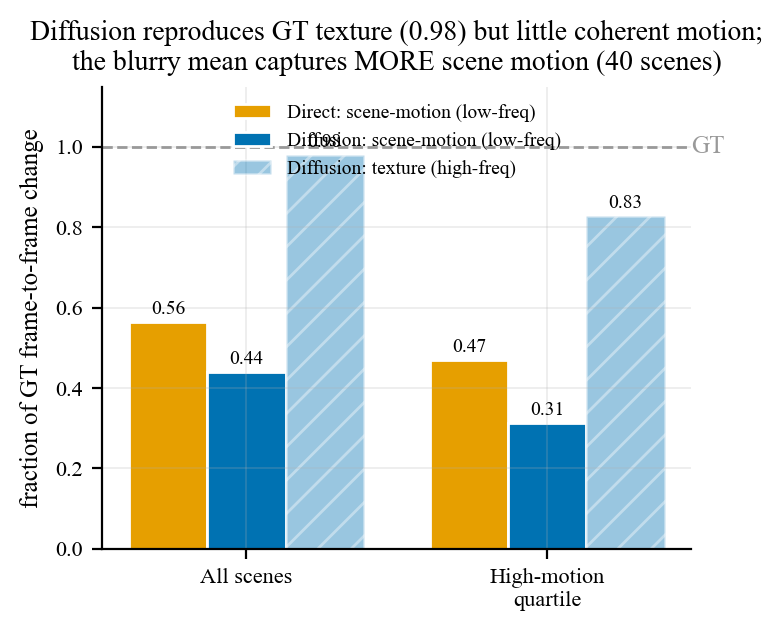
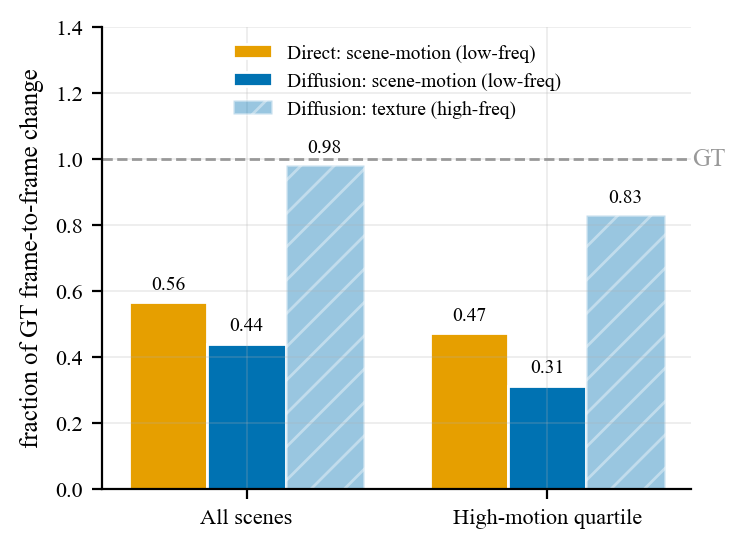
Adjust fig_motion_fidelity legend position and x-axis label layout

Changed region(s): [[0.0, 0.031, 0.9879, 0.9617]]

diff --git a/scripts/make_report_figures.py b/scripts/make_report_figures.py
@@ -243,7 +243,7 @@ def smf(profile):
     The headline correction to the old 'more dynamic than the blur' claim."""
     S.apply(profile)
     d = S.load("motion_fidelity.json")
-    groups = ["all_scenes", "high_motion_quartile"]; glab = ["All scenes", "High-motion\nquartile"]
+    groups = ["all_scenes", "high_motion_quartile"]; glab = ["All scenes", "High-motion quartile"]
     dlow = [d[g]["direct"]["lowfreq_frac_of_gt"] for g in groups]
     glow = [d[g]["diffusion"]["lowfreq_frac_of_gt"] for g in groups]
     ghigh = [d[g]["diffusion"]["highfreq_frac_of_gt"] for g in groups]
@@ -253,13 +253,12 @@ def smf(profile):
     ax.bar(x, glow, w, color=S.C["diffusion"], edgecolor="white", label="Diffusion: scene-motion (low-freq)")
     ax.bar(x + w, ghigh, w, color=S.C["diffusion"], alpha=0.4, hatch="//", edgecolor="white", label="Diffusion: texture (high-freq)")
     ax.axhline(1.0, ls="--", color=S.C["ceiling"], lw=1.0); ax.text(1.48, 1.0, "GT", va="center", color=S.C["ceiling"])
-    for xi, v in zip(x - w, dlow): ax.text(xi, v + 0.02, f"{v:.2f}", ha="center", fontsize=plt.rcParams["legend.fontsize"]-1)
-    for xi, v in zip(x, glow): ax.text(xi, v + 0.02, f"{v:.2f}", ha="center", fontsize=plt.rcParams["legend.fontsize"]-1)
-    for xi, v in zip(x + w, ghigh): ax.text(xi, v + 0.02, f"{v:.2f}", ha="center", fontsize=plt.rcParams["legend.fontsize"]-1)
-    ax.set_xticks(x); ax.set_xticklabels(glab); ax.set_ylim(0, 1.15)
+    for xi, v in zip(x - w, dlow): ax.text(xi, v + 0.04, f"{v:.2f}", ha="center", fontsize=plt.rcParams["legend.fontsize"]-1)
+    for xi, v in zip(x, glow): ax.text(xi, v + 0.04, f"{v:.2f}", ha="center", fontsize=plt.rcParams["legend.fontsize"]-1)
+    for xi, v in zip(x + w, ghigh): ax.text(xi, v + 0.04, f"{v:.2f}", ha="center", fontsize=plt.rcParams["legend.fontsize"]-1)
+    ax.set_xticks(x); ax.set_xticklabels(glab); ax.set_ylim(0, 1.40)
     ax.set_ylabel("fraction of GT frame-to-frame change")
     ax.legend(frameon=False, loc="upper center", fontsize=plt.rcParams["legend.fontsize"]-1)
-    ax.set_title("Diffusion reproduces GT texture (0.98) but little coherent motion;\nthe blurry mean captures MORE scene motion (40 scenes)")
     return S.savefig(fig, "fig_motion_fidelity", profile)
 
 